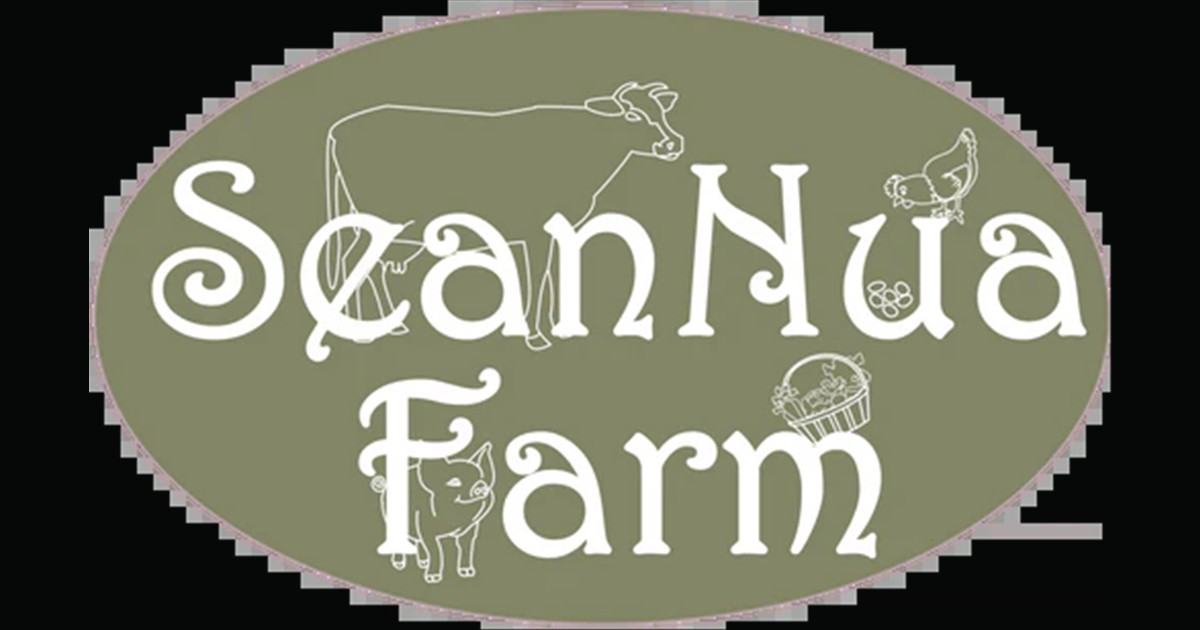
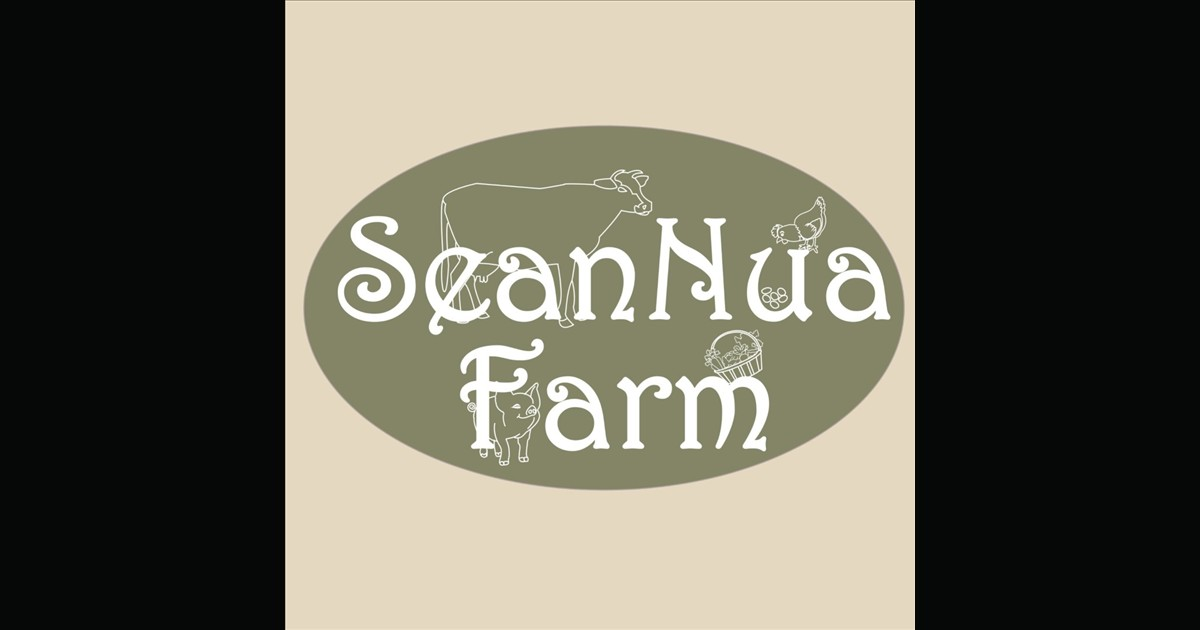
SeanNua Farm's card image, from the version Darragh supplied
He dropped a 1920 square of the logo on a solid cream ground, which is
a better asset than the 500px oval the record was using: higher
resolution, and an opaque rectangle rather than a logo floating on the
dark card.

It lands as seannuafarm.jpg at 1080 square, quality 88, 75kb. JPEG
because the source is one, and carrying it as a PNG cost 285kb to
preserve JPEG artefacts. The old seannuafarm.png is gone and the
record points at the new name; producers.json held the only reference.

diff --git a/service-worker.js b/service-worker.js
@@ -1,4 +1,4 @@
-const CACHE = 'provenance-v742';
+const CACHE = 'provenance-v743';
 /* What the install downloads. The island artwork used to be in here, which
    made installing the app a 2MB download before it had drawn anything; it is
    cache-first like every other image, so it lands on first view instead and
